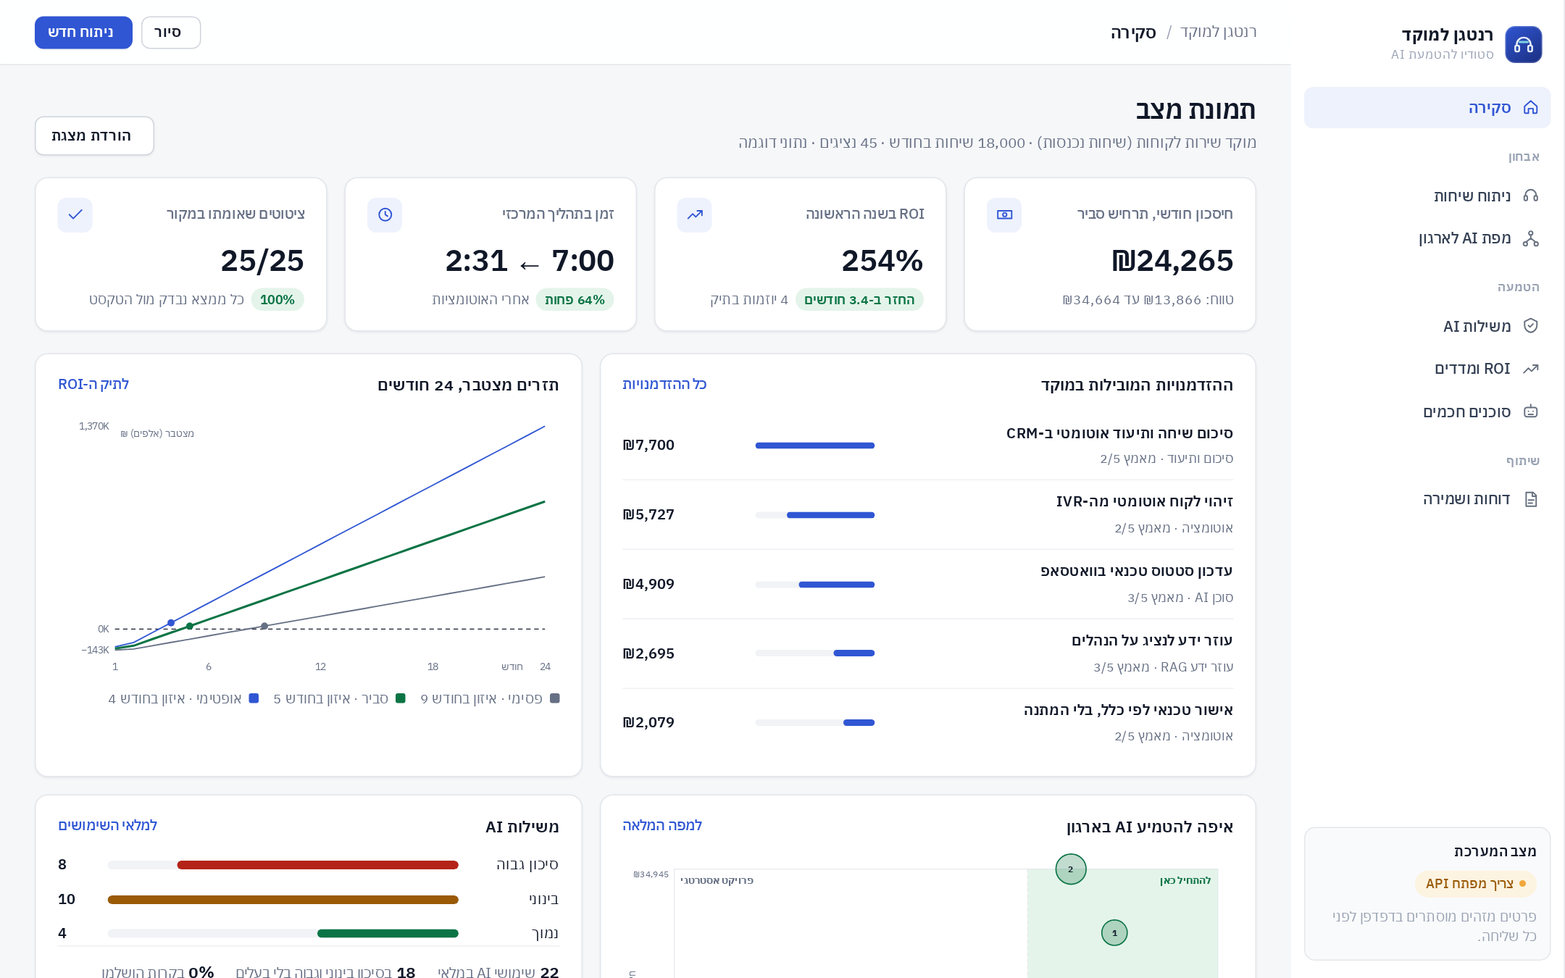
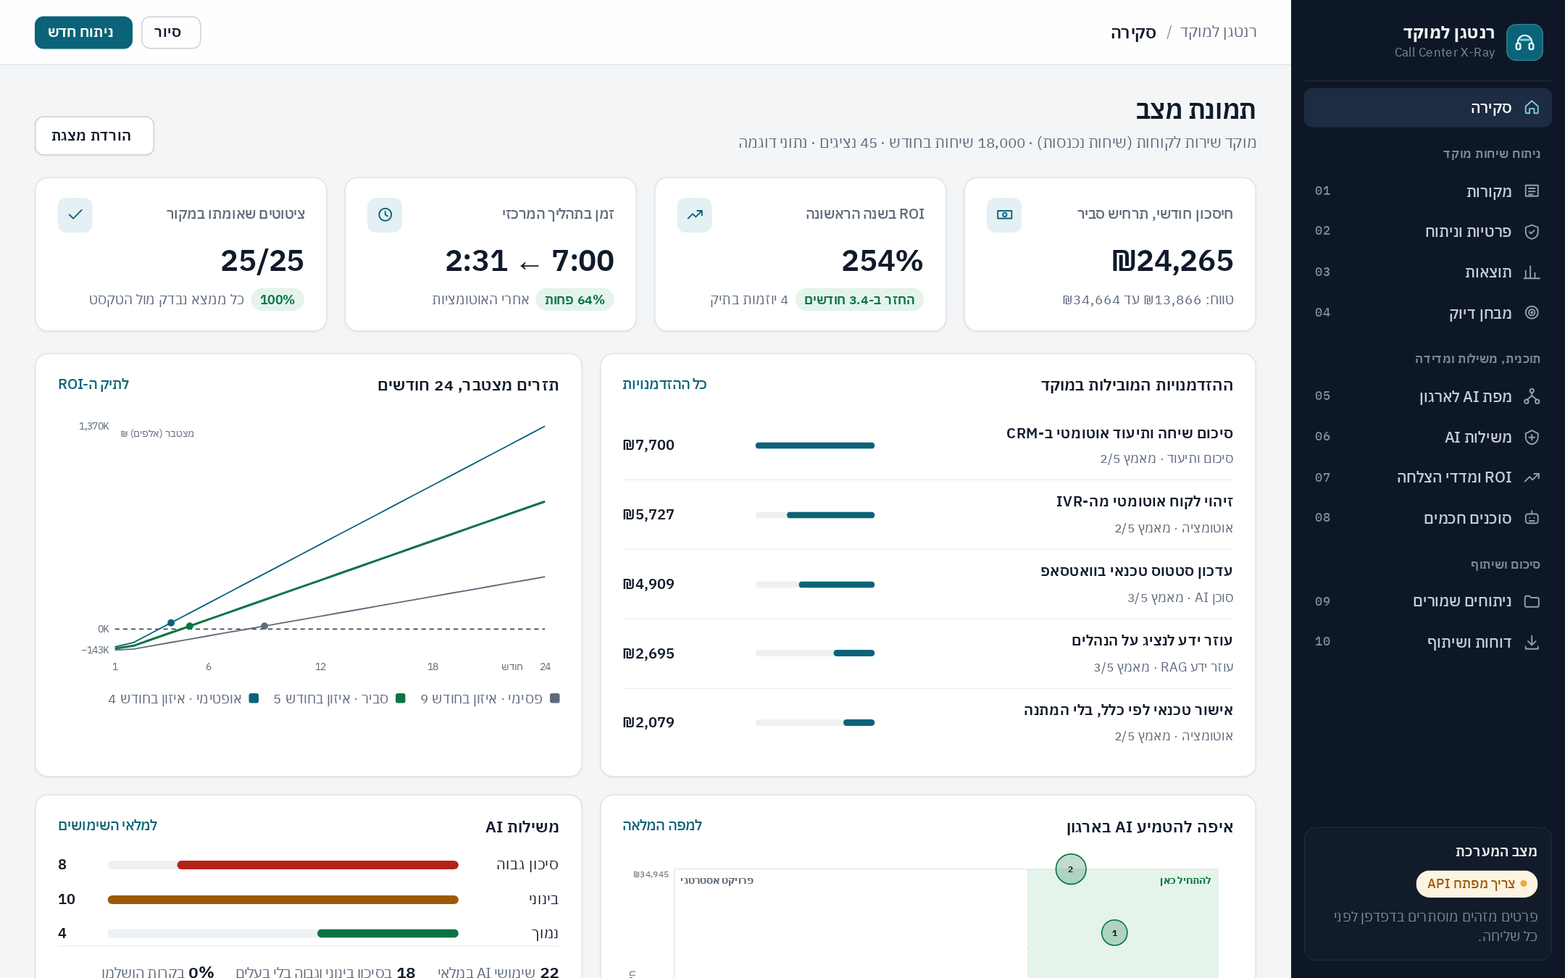
Restore every step in the sidebar and the in-tool guidance
- Sidebar lists the overview plus all 10 steps again, each opening its screen
- Back to the dark sidebar and petrol accent
- 'What now?' guidance visible again; one-line summary under each title,
  full explanation behind the info button
- Content fills the full width
- Screenshots and demo GIF rebuilt

Claude-Session: https://claude.ai/code/session_01NoNZGB2z2MiKGwQLPAJggP

diff --git a/index.html b/index.html
@@ -15,44 +15,44 @@
 :root{
   --font:"IBM Plex Sans Hebrew","IBM Plex Sans","Segoe UI","Arial Hebrew",Arial,sans-serif;
   --mono:"IBM Plex Mono",ui-monospace,SFMono-Regular,Menlo,monospace;
-  --bg:#F6F7F9; --surface:#FFFFFF; --surface-2:#F9FAFB; --sunken:#F1F3F6;
-  --line:#E3E6EB; --line-2:#EEF0F3; --line-strong:#D0D5DD;
-  --ink:#101828; --ink-2:#344054; --muted:#667085; --faint:#98A2B3;
-  --accent:#3056D3; --accent-hover:#2445B0; --accent-ink:#FFFFFF; --accent-soft:#EEF2FD; --accent-line:#C3D0F6;
+  --bg:#F3F5F7; --surface:#FFFFFF; --surface-2:#F8F9FB; --sunken:#EEF1F4;
+  --line:#DEE3E9; --line-2:#EBEEF2; --line-strong:#CBD2DB;
+  --ink:#0F1A2A; --ink-2:#354357; --muted:#5E6B7C; --faint:#8C97A5;
+  --accent:#0A6378; --accent-hover:#084F60; --accent-ink:#FFFFFF; --accent-soft:#E4F0F3; --accent-line:#A8CDD7;
   --amber:#9A5A06; --amber-soft:#FDF3E1;
   --good:#0B7445; --good-soft:#E4F4EA;
   --crit:#B42318; --crit-soft:#FDECEA;
   --violet:#5A45B6; --violet-soft:#EFECFA;
   --mark:#FFEBA8;
-  --side-bg:#FFFFFF; --side-ink:#344054; --side-muted:#98A2B3; --side-hover:#F2F4F7; --side-on:#EEF2FD; --side-line:#E3E6EB; --side-acc:#3056D3;
-  --shadow-sm:0 1px 2px rgba(16,24,40,.04),0 1px 3px rgba(16,24,40,.03);
+  --side-bg:#0E1726; --side-ink:#C4CDD9; --side-muted:#7D899B; --side-hover:#162235; --side-on:#1D2C43; --side-line:#1C2839; --side-acc:#7CCBDD;
+  --shadow-sm:0 1px 2px rgba(15,26,42,.05);
   --shadow-md:0 1px 2px rgba(15,26,42,.04),0 6px 16px -4px rgba(15,26,42,.10);
-  --ring:0 0 0 3px rgba(48,86,211,.16);
+  --ring:0 0 0 3px rgba(10,99,120,.18);
   --r-sm:6px; --r:8px; --r-lg:12px;
 }
 @media (prefers-color-scheme: dark){
   :root:not([data-theme="light"]){
     color-scheme:dark;
-    --bg:#0B1017; --surface:#121922; --surface-2:#161E29; --sunken:#0E141C;
+    --bg:#0A1018; --surface:#111924; --surface-2:#151F2B; --sunken:#0D141D;
     --line:#233042; --line-2:#1B2634; --line-strong:#304055;
     --ink:#E6EBF1; --ink-2:#C1CBD7; --muted:#8F9CAD; --faint:#6A7789;
-    --accent:#86A3FF; --accent-hover:#A5BBFF; --accent-ink:#0A1024; --accent-soft:#1A2447; --accent-line:#2E3E78;
+    --accent:#5BB8CE; --accent-hover:#7BCADB; --accent-ink:#06121A; --accent-soft:#11303A; --accent-line:#245767;
     --amber:#F0A73A; --amber-soft:#30240F; --good:#4FC98A; --good-soft:#0F2D1E;
     --crit:#FF8070; --crit-soft:#381713; --violet:#A99BF4; --violet-soft:#221E42; --mark:#5A4712;
-    --side-bg:#0E141D; --side-ink:#C1CBD7; --side-muted:#6A7789; --side-hover:#151E2A; --side-on:#1A2447; --side-line:#1B2634; --side-acc:#86A3FF;
-    --shadow-sm:none; --shadow-md:0 8px 24px -8px rgba(0,0,0,.5); --ring:0 0 0 3px rgba(134,163,255,.25);
+    --side-bg:#070C13; --side-hover:#101926; --side-on:#172335; --side-line:#141E2B;
+    --shadow-sm:none; --shadow-md:0 8px 24px -8px rgba(0,0,0,.5); --ring:0 0 0 3px rgba(91,184,206,.25);
   }
 }
 :root[data-theme="dark"]{
   color-scheme:dark;
-  --bg:#0B1017; --surface:#121922; --surface-2:#161E29; --sunken:#0E141C;
+  --bg:#0A1018; --surface:#111924; --surface-2:#151F2B; --sunken:#0D141D;
   --line:#233042; --line-2:#1B2634; --line-strong:#304055;
   --ink:#E6EBF1; --ink-2:#C1CBD7; --muted:#8F9CAD; --faint:#6A7789;
-  --accent:#86A3FF; --accent-hover:#A5BBFF; --accent-ink:#0A1024; --accent-soft:#1A2447; --accent-line:#2E3E78;
+  --accent:#5BB8CE; --accent-hover:#7BCADB; --accent-ink:#06121A; --accent-soft:#11303A; --accent-line:#245767;
   --amber:#F0A73A; --amber-soft:#30240F; --good:#4FC98A; --good-soft:#0F2D1E;
   --crit:#FF8070; --crit-soft:#381713; --violet:#A99BF4; --violet-soft:#221E42; --mark:#5A4712;
-  --side-bg:#0E141D; --side-ink:#C1CBD7; --side-muted:#6A7789; --side-hover:#151E2A; --side-on:#1A2447; --side-line:#1B2634; --side-acc:#86A3FF;
-  --shadow-sm:none; --shadow-md:0 8px 24px -8px rgba(0,0,0,.5); --ring:0 0 0 3px rgba(134,163,255,.25);
+  --side-bg:#070C13; --side-hover:#101926; --side-on:#172335; --side-line:#141E2B;
+  --shadow-sm:none; --shadow-md:0 8px 24px -8px rgba(0,0,0,.5); --ring:0 0 0 3px rgba(91,184,206,.25);
 }
 
 /* ---------- base ---------- */
@@ -87,31 +87,31 @@ input:focus-visible,select:focus-visible,textarea:focus-visible{outline:none}
 
 /* ---------- app shell ---------- */
 .app{display:grid;grid-template-columns:252px minmax(0,1fr);min-height:100%}
-.side{position:sticky;top:0;height:100vh;height:100dvh;display:flex;flex-direction:column;gap:2px;padding:16px 12px calc(16px + env(safe-area-inset-bottom,0px));background:var(--side-bg);border-inline-start:1px solid var(--side-line);color:var(--side-ink);overflow-y:auto;scrollbar-width:thin;scrollbar-color:var(--side-line) transparent}
-.logo{display:flex;align-items:center;gap:10px;text-decoration:none;color:var(--ink);padding:6px 8px 18px}
-.logo .mark{flex:none;width:34px;height:34px;border-radius:9px;display:grid;place-items:center;background:linear-gradient(145deg,#3056D3,#1B2F80);box-shadow:inset 0 0 0 1px rgba(255,255,255,.18)}
-.logo b{font-size:15.5px;font-weight:700;display:block;line-height:1.25;color:var(--ink)}
+.side{position:sticky;top:0;height:100vh;height:100dvh;display:flex;flex-direction:column;gap:2px;padding:16px 12px calc(16px + env(safe-area-inset-bottom,0px));background:var(--side-bg);color:var(--side-ink);overflow-y:auto;scrollbar-width:thin;scrollbar-color:var(--side-line) transparent}
+.logo{display:flex;align-items:center;gap:10px;text-decoration:none;color:#F4F7FA;padding:4px 8px 16px;margin-bottom:4px;border-bottom:1px solid var(--side-line)}
+.logo .mark{flex:none;width:34px;height:34px;border-radius:9px;display:grid;place-items:center;background:#0A6378;box-shadow:inset 0 0 0 1px rgba(255,255,255,.16)}
+.logo b{font-size:15.5px;font-weight:700;display:block;line-height:1.25;color:#F4F7FA}
 .logo small{font-size:11.5px;color:var(--side-muted);display:block}
-.side .navlabel{font-size:11.5px;font-weight:600;color:var(--side-muted);padding:16px 10px 6px}
+.side .navlabel{font-size:11.5px;font-weight:600;color:var(--side-muted);padding:14px 10px 6px}
 .side nav{display:grid;gap:1px}
-.side nav a{display:flex;align-items:center;gap:10px;padding:8px 10px;border-radius:8px;text-decoration:none;color:var(--side-ink);font-weight:500;font-size:14px;transition:background .12s,color .12s}
+.side nav a{display:flex;align-items:center;gap:10px;padding:7px 10px;border-radius:7px;text-decoration:none;color:var(--side-ink);font-weight:500;font-size:14px;transition:background .12s,color .12s}
 .side nav a svg{width:17px;height:17px;flex:none;opacity:.75}
 .side nav a .n{margin-inline-start:auto;font-family:var(--mono);font-size:11px;color:var(--side-muted)}
-.side nav a:hover{background:var(--side-hover);color:var(--ink)}
-.side nav a.on{background:var(--side-on);color:var(--side-acc);font-weight:600}
+.side nav a:hover{background:var(--side-hover);color:#FFFFFF}
+.side nav a.on{background:var(--side-on);color:#FFFFFF}
 .side nav a.on svg{opacity:1;color:var(--side-acc)}
 .side nav a.on .n{color:var(--side-acc)}
 .tour-btn{display:flex;align-items:center;gap:10px;margin-top:12px;padding:7px 10px;border-radius:7px;border:1px solid var(--side-line);background:none;color:var(--side-ink);font:inherit;font-weight:500;font-size:14px;cursor:pointer;text-align:start}
 .tour-btn svg{width:17px;height:17px;opacity:.75}
 .tour-btn:hover{background:var(--side-hover);color:#FFFFFF}
-.side .card{margin-top:auto;border:1px solid var(--side-line);border-radius:10px;padding:12px;display:grid;gap:8px;background:var(--surface-2);font-size:12.5px;color:var(--side-muted);line-height:1.5}
-.side .card b{color:var(--ink);font-size:12.5px}
-.side .chip{justify-self:start;white-space:normal}
+.side .card{margin-top:auto;border:1px solid var(--side-line);border-radius:10px;padding:12px;display:grid;gap:8px;background:rgba(255,255,255,.02);font-size:12.5px;color:var(--side-muted);line-height:1.5}
+.side .card b{color:#E8EDF3;font-size:12.5px}
+.side .chip{justify-self:start;background:rgba(255,255,255,.06);border-color:rgba(255,255,255,.1);color:#E8EDF3;white-space:normal}
 .side .chip::before{content:"";flex:none;width:6px;height:6px;border-radius:50%;background:var(--side-muted)}
 .side .chip.good::before{background:#4FC98A}
 .side .chip.amb::before{background:#F0A73A}
 .main{min-width:0}
-.main .wrap{max-width:1240px;margin:0 auto;padding-inline:32px;padding-block:24px 72px;display:grid;gap:20px}
+.main .wrap{max-width:none;margin:0;padding-inline:32px;padding-block:24px 72px;display:grid;gap:20px}
 
 /* ---------- top bar & screens ---------- */
 .topbar{position:sticky;top:env(safe-area-inset-top,0px);z-index:20;display:flex;align-items:center;justify-content:space-between;gap:12px;height:60px;padding-inline:32px;background:color-mix(in srgb,var(--surface) 90%,transparent);backdrop-filter:saturate(1.4) blur(10px);-webkit-backdrop-filter:saturate(1.4) blur(10px);border-bottom:1px solid var(--line)}
@@ -151,6 +151,10 @@ input:focus-visible,select:focus-visible,textarea:focus-visible{outline:none}
 .ov-grid > :nth-child(1){grid-area:opps} .ov-grid > :nth-child(2){grid-area:roi} .ov-grid > :nth-child(3){grid-area:map}
 .ov-grid > :nth-child(4){grid-area:gov} .ov-grid > :nth-child(5){grid-area:ins} .ov-grid > :nth-child(6){grid-area:next}
 .ov-grid .steps-list{grid-template-columns:repeat(3,minmax(0,1fr));gap:4px 12px}
+.ov-grid{grid-template-areas:"opps roi" "map gov" "map ins" "next next"}
+.ov-grid > :nth-child(1){grid-area:opps} .ov-grid > :nth-child(2){grid-area:roi} .ov-grid > :nth-child(3){grid-area:map}
+.ov-grid > :nth-child(4){grid-area:gov} .ov-grid > :nth-child(5){grid-area:ins} .ov-grid > :nth-child(6){grid-area:next}
+.ov-grid .steps-list{grid-template-columns:repeat(3,minmax(0,1fr));gap:4px 12px}
 .oc{background:var(--surface);border:1px solid var(--line);border-radius:var(--r-lg);padding:18px 20px;display:grid;gap:14px;align-content:start;box-shadow:var(--shadow-sm);min-width:0}
 .oc-h{display:flex;justify-content:space-between;align-items:center;gap:8px}
 .oc-h h3{font-size:14.5px}
@@ -185,16 +189,15 @@ input:focus-visible,select:focus-visible,textarea:focus-visible{outline:none}
 .empty{display:grid;gap:10px;justify-items:start;padding:6px 0;color:var(--muted);font-size:13.5px}
 
 /* ---------- sections ---------- */
-.panel{background:var(--surface);border:1px solid var(--line);border-radius:var(--r-lg);box-shadow:var(--shadow-sm);padding:24px 28px;display:grid;gap:16px;scroll-margin-top:16px;min-width:0}
+.panel{background:var(--surface);border:1px solid var(--line);border-radius:var(--r-lg);box-shadow:var(--shadow-sm);padding:24px;display:grid;gap:16px;scroll-margin-top:16px;min-width:0}
 .phead{display:flex;flex-wrap:wrap;align-items:center;justify-content:space-between;gap:10px 16px}
-.panel > .phead{padding-bottom:18px;border-bottom:1px solid var(--line-2)}
-.panel > .phead h2{font-size:20px}
+.panel > .phead{padding-bottom:16px;border-bottom:1px solid var(--line-2)}
 .shead{display:flex;align-items:center;gap:12px}
 .shead .ico{display:none}
-.shead .num{display:none}
+.shead .num{display:block;font-size:12px;font-weight:600;color:var(--accent);margin-bottom:2px}
+.shead .lede{display:block;font-size:13.5px;color:var(--muted);margin-top:2px;max-width:80ch}
 .panel > p{color:var(--ink-2);max-width:82ch}
-.nextbar{display:flex;justify-content:flex-end;padding-top:14px;border-top:1px solid var(--line-2)}
-.nextbar > span{display:none}
+.nextbar{display:flex;flex-wrap:wrap;gap:10px 16px;align-items:center;justify-content:space-between;padding-top:16px;margin-top:4px;border-top:1px solid var(--line-2);font-size:13.5px;color:var(--muted)}
 .nextbar b{color:var(--ink)}
 .nextbar .btn.primary{background:var(--surface);color:var(--accent);border-color:var(--line-strong)}
 .nextbar .btn.primary:hover{background:var(--accent-soft);border-color:var(--accent-line)}
@@ -502,25 +505,21 @@ table.t td.num{font-variant-numeric:tabular-nums;white-space:nowrap}
   .profile .field:first-child{grid-column:1 / -1}
   .top3{grid-template-columns:1fr}
   .kpis{grid-template-columns:1fr 1fr}
+  .agents{grid-template-columns:1fr 1fr}
+  .insights{grid-template-columns:1fr}
   .readout{grid-template-columns:1fr 1fr}
   .ov-grid{grid-template-columns:1fr;grid-template-areas:none}
   .ov-grid > *{grid-area:auto!important}
   .ov-grid .steps-list{grid-template-columns:1fr}
-  .agents{grid-template-columns:1fr 1fr}
-  .insights{grid-template-columns:1fr}
 }
 @media (max-width:980px){
   .app{grid-template-columns:1fr}
   .side{position:sticky;top:0;z-index:30;height:auto;flex-direction:row;align-items:center;gap:8px;padding:8px 12px;padding-top:calc(8px + env(safe-area-inset-top,0px));overflow-x:auto;scrollbar-width:none}
   .side::-webkit-scrollbar{display:none}
-  .side{border-inline-start:0;border-bottom:1px solid var(--side-line)}
   .side .navlabel,.side .card,.logo small,.tour-btn{display:none}
-  .logo{padding:0 4px;margin:0}
+  .logo{border:0;padding:0 4px;margin:0}
   .topbar{position:static;height:auto;min-height:52px;padding:10px 16px}
   .subnav{position:static;padding-inline:16px}
-  .ov-grid{grid-template-columns:1fr;grid-template-areas:none}
-  .ov-grid > *{grid-area:auto!important}
-  .ov-grid .steps-list{grid-template-columns:1fr}
   .logo .mark{width:30px;height:30px}
   .logo b{font-size:14.5px;white-space:nowrap}
   .side nav{display:flex;gap:2px}
@@ -551,18 +550,22 @@ table.t td.num{font-variant-numeric:tabular-nums;white-space:nowrap}
 
 <div class="app">
 <aside class="side" aria-label="ניווט">
-  <a class="logo" href="#overview"><span class="mark"><svg width="22" height="22" viewBox="0 0 24 24" fill="none" stroke="#E8F1F8" stroke-width="1.8" stroke-linecap="round" aria-hidden="true"><path d="M5 13v-1a7 7 0 0 1 14 0v1"/><rect x="3.5" y="13" width="4" height="6" rx="1.5"/><rect x="16.5" y="13" width="4" height="6" rx="1.5"/><path d="M8 9.5h8" stroke="#7FD3E6" stroke-width="2.2"/></svg></span><span><b>רנטגן למוקד</b><small>סטודיו להטמעת AI</small></span></a>
+  <a class="logo" href="#overview"><span class="mark"><svg width="22" height="22" viewBox="0 0 24 24" fill="none" stroke="#E8F1F8" stroke-width="1.8" stroke-linecap="round" aria-hidden="true"><path d="M5 13v-1a7 7 0 0 1 14 0v1"/><rect x="3.5" y="13" width="4" height="6" rx="1.5"/><rect x="16.5" y="13" width="4" height="6" rx="1.5"/><path d="M8 9.5h8" stroke="#7FD3E6" stroke-width="2.2"/></svg></span><span><b>רנטגן למוקד</b><small>Call Center X-Ray</small></span></a>
   <nav aria-label="ניווט ראשי">
     <a href="#overview" data-nav="overview"><svg viewBox="0 0 24 24" fill="none" stroke="currentColor" stroke-width="1.8" stroke-linecap="round" stroke-linejoin="round" aria-hidden="true"><path d="M4 11l8-7 8 7v8a1 1 0 0 1-1 1h-4v-6h-6v6H5a1 1 0 0 1-1-1z"/></svg>סקירה</a>
-    <span class="navlabel">אבחון</span>
-    <a href="#s-results" data-nav="calls"><svg viewBox="0 0 24 24" fill="none" stroke="currentColor" stroke-width="1.8" stroke-linecap="round" stroke-linejoin="round" aria-hidden="true"><path d="M5 13v-1a7 7 0 0 1 14 0v1"/><rect x="3.5" y="13" width="4" height="6" rx="1.5"/><rect x="16.5" y="13" width="4" height="6" rx="1.5"/></svg>ניתוח שיחות</a>
-    <a href="#s-org" data-nav="org"><svg viewBox="0 0 24 24" fill="none" stroke="currentColor" stroke-width="1.8" stroke-linecap="round" stroke-linejoin="round" aria-hidden="true"><circle cx="12" cy="5" r="2.5"/><circle cx="5" cy="19" r="2.5"/><circle cx="19" cy="19" r="2.5"/><path d="M12 7.5v4M12 11.5l-6 5M12 11.5l6 5"/></svg>מפת AI לארגון</a>
-    <span class="navlabel">הטמעה</span>
-    <a href="#s-gov" data-nav="gov"><svg viewBox="0 0 24 24" fill="none" stroke="currentColor" stroke-width="1.8" stroke-linecap="round" stroke-linejoin="round" aria-hidden="true"><path d="M12 3l8 4v5c0 4.5-3.4 8.2-8 9-4.6-.8-8-4.5-8-9V7z"/><path d="M9 12l2 2 4-4"/></svg>משילות AI</a>
-    <a href="#s-roi" data-nav="roi"><svg viewBox="0 0 24 24" fill="none" stroke="currentColor" stroke-width="1.8" stroke-linecap="round" stroke-linejoin="round" aria-hidden="true"><path d="M3 17l6-6 4 4 8-8"/><path d="M15 7h6v6"/></svg>ROI ומדדים</a>
-    <a href="#s-agents" data-nav="agents"><svg viewBox="0 0 24 24" fill="none" stroke="currentColor" stroke-width="1.8" stroke-linecap="round" stroke-linejoin="round" aria-hidden="true"><rect x="4" y="7" width="16" height="12" rx="3"/><path d="M12 3v4M9 12h.01M15 12h.01M9 16h6"/></svg>סוכנים חכמים</a>
-    <span class="navlabel">שיתוף</span>
-    <a href="#s-export" data-nav="reports"><svg viewBox="0 0 24 24" fill="none" stroke="currentColor" stroke-width="1.8" stroke-linecap="round" stroke-linejoin="round" aria-hidden="true"><path d="M6 3h9l4 4v14H6z"/><path d="M14 3v5h5M9 13h7M9 17h5"/></svg>דוחות ושמירה</a>
+    <span class="navlabel">ניתוח שיחות מוקד</span>
+    <a href="#s-sources" data-nav="calls"><svg viewBox="0 0 24 24" fill="none" stroke="currentColor" stroke-width="1.8" stroke-linecap="round" stroke-linejoin="round" aria-hidden="true"><path d="M4 5h16v14H4z"/><path d="M8 9h8M8 13h8M8 17h5"/></svg>מקורות<span class="n">01</span></a>
+    <a href="#s-run" data-nav="calls"><svg viewBox="0 0 24 24" fill="none" stroke="currentColor" stroke-width="1.8" stroke-linecap="round" stroke-linejoin="round" aria-hidden="true"><path d="M12 3l8 3v6c0 5-3.5 8-8 9-4.5-1-8-4-8-9V6z"/><path d="M9 12l2 2 4-4"/></svg>פרטיות וניתוח<span class="n">02</span></a>
+    <a href="#s-results" data-nav="calls"><svg viewBox="0 0 24 24" fill="none" stroke="currentColor" stroke-width="1.8" stroke-linecap="round" stroke-linejoin="round" aria-hidden="true"><path d="M4 20V10M10 20V4M16 20v-7M22 20H2"/></svg>תוצאות<span class="n">03</span></a>
+    <a href="#s-eval" data-nav="calls"><svg viewBox="0 0 24 24" fill="none" stroke="currentColor" stroke-width="1.8" stroke-linecap="round" stroke-linejoin="round" aria-hidden="true"><circle cx="12" cy="12" r="8"/><circle cx="12" cy="12" r="4"/><circle cx="12" cy="12" r="1"/></svg>מבחן דיוק<span class="n">04</span></a>
+    <span class="navlabel">תוכנית, משילות ומדידה</span>
+    <a href="#s-org" data-nav="org"><svg viewBox="0 0 24 24" fill="none" stroke="currentColor" stroke-width="1.8" stroke-linecap="round" stroke-linejoin="round" aria-hidden="true"><circle cx="12" cy="5" r="2.5"/><circle cx="5" cy="19" r="2.5"/><circle cx="19" cy="19" r="2.5"/><path d="M12 7.5v4M12 11.5l-6 5M12 11.5l6 5"/></svg>מפת AI לארגון<span class="n">05</span></a>
+    <a href="#s-gov" data-nav="gov"><svg viewBox="0 0 24 24" fill="none" stroke="currentColor" stroke-width="1.8" stroke-linecap="round" stroke-linejoin="round" aria-hidden="true"><path d="M12 3l8 4v5c0 4.5-3.4 8.2-8 9-4.6-.8-8-4.5-8-9V7z"/><path d="M8.5 12h7M12 8.5v7"/></svg>משילות AI<span class="n">06</span></a>
+    <a href="#s-roi" data-nav="roi"><svg viewBox="0 0 24 24" fill="none" stroke="currentColor" stroke-width="1.8" stroke-linecap="round" stroke-linejoin="round" aria-hidden="true"><path d="M3 17l6-6 4 4 8-8"/><path d="M15 7h6v6"/></svg>ROI ומדדי הצלחה<span class="n">07</span></a>
+    <a href="#s-agents" data-nav="agents"><svg viewBox="0 0 24 24" fill="none" stroke="currentColor" stroke-width="1.8" stroke-linecap="round" stroke-linejoin="round" aria-hidden="true"><rect x="4" y="7" width="16" height="12" rx="3"/><path d="M12 3v4M9 12h.01M15 12h.01M9 16h6"/></svg>סוכנים חכמים<span class="n">08</span></a>
+    <span class="navlabel">סיכום ושיתוף</span>
+    <a href="#s-projects" data-nav="reports"><svg viewBox="0 0 24 24" fill="none" stroke="currentColor" stroke-width="1.8" stroke-linecap="round" stroke-linejoin="round" aria-hidden="true"><path d="M3 7a2 2 0 0 1 2-2h4l2 2h8a2 2 0 0 1 2 2v8a2 2 0 0 1-2 2H5a2 2 0 0 1-2-2z"/></svg>ניתוחים שמורים<span class="n">09</span></a>
+    <a href="#s-export" data-nav="reports"><svg viewBox="0 0 24 24" fill="none" stroke="currentColor" stroke-width="1.8" stroke-linecap="round" stroke-linejoin="round" aria-hidden="true"><path d="M12 3v12M7 10l5 5 5-5"/><path d="M4 17v3h16v-3"/></svg>דוחות ושיתוף<span class="n">10</span></a>
   </nav>
   <div class="card"><b>מצב המערכת</b><span class="chip" id="ai-status">בודק חיבור…</span><span>פרטים מזהים מוסתרים בדפדפן לפני כל שליחה.</span></div>
 </aside>
@@ -2377,7 +2380,7 @@ const VIEWS = {
   gov:{ t:'משילות AI', secs:[['s-gov','']] },
   roi:{ t:'ROI ומדדי הצלחה', secs:[['s-roi','']] },
   agents:{ t:'סוכנים חכמים', secs:[['s-agents','']] },
-  reports:{ t:'דוחות ושמירה', secs:[['s-export','דוחות ושיתוף'],['s-projects','ניתוחים שמורים']] }
+  reports:{ t:'סיכום ושיתוף', secs:[['s-projects','ניתוחים שמורים'],['s-export','דוחות ושיתוף']] }
 };
 const viewOf = id => Object.keys(VIEWS).find(v => VIEWS[v].secs.some(x => x[0] === id));
 let curSec = 'overview';
@@ -2389,7 +2392,7 @@ function go(id, init){
   $('tb-title').textContent = V.t;
   sn.hidden = V.secs.length < 2;
   sn.innerHTML = V.secs.length > 1 ? V.secs.map(([sid, l], i) => `<a href="#${sid}" class="${sid === id ? 'on' : ''}"${sid === id ? ' aria-current="page"' : ''}><i>${i+1}</i>${l}</a>`).join('') : '';
-  document.querySelectorAll('.side nav a[data-nav]').forEach(a => { const on = a.dataset.nav === v; a.classList.toggle('on', on); on ? a.setAttribute('aria-current','page') : a.removeAttribute('aria-current'); });
+  document.querySelectorAll('.side nav a[data-nav]').forEach(a => { const on = a.getAttribute('href') === '#' + id; a.classList.toggle('on', on); on ? a.setAttribute('aria-current','page') : a.removeAttribute('aria-current'); });
   if(id === 'overview') renderOverview();
   window.scrollTo(0, 0);
   if(!init){ try{ history.replaceState(null, '', '#' + id); }catch(e){} }
@@ -2412,6 +2415,8 @@ document.querySelectorAll('.panel').forEach(p => {
   const intro = [...p.children].find(c => c.tagName === 'P' && !c.classList.contains('note')); if(!intro) return;
   const head = p.querySelector('.phead .shead'); if(!head) return;
   intro.classList.add('intro'); intro.hidden = true; intro.id = intro.id || p.id + '-intro';
+  const first = intro.textContent.trim().split(/(?<=[.:])\s/)[0];
+  const h2 = head.querySelector('h2'); if(h2){ const l = document.createElement('span'); l.className = 'lede'; l.textContent = first; h2.after(l); }
   const b = document.createElement('button'); b.type = 'button'; b.className = 'info-btn'; b.textContent = 'i';
   b.setAttribute('aria-label', 'הסבר על המסך'); b.setAttribute('aria-expanded', 'false'); b.setAttribute('aria-controls', intro.id);
   b.onclick = () => { intro.hidden = !intro.hidden; b.setAttribute('aria-expanded', String(!intro.hidden)); };

diff --git a/tests/app.spec.js b/tests/app.spec.js
@@ -228,8 +228,9 @@ test.describe('screens', () => {
     await expect(page.locator('#ov-next li')).toHaveCount(6);
   });
 
-  test('sidebar switches screens and marks the active one', async ({ page }) => {
+  test('sidebar lists every step and switches screens', async ({ page }) => {
     await open(page, { screens: true });
+    await expect(page.locator('.side nav a')).toHaveCount(11); // overview + 10 steps
     await page.click('.side nav a[href="#s-org"]');
     await expect(page.locator('#s-org')).toBeVisible();
     await expect(page.locator('#overview')).toBeHidden();
@@ -240,7 +241,7 @@ test.describe('screens', () => {
 
   test('call analysis has four steps in a sub-navigation', async ({ page }) => {
     await open(page, { screens: true });
-    await page.click('.side nav a[data-nav="calls"]');
+    await page.click('.side nav a[href="#s-results"]');
     const sub = page.locator('#subnav a');
     await expect(sub).toHaveCount(4);
     await expect(page.locator('#subnav a.on')).toContainText('תוצאות');
